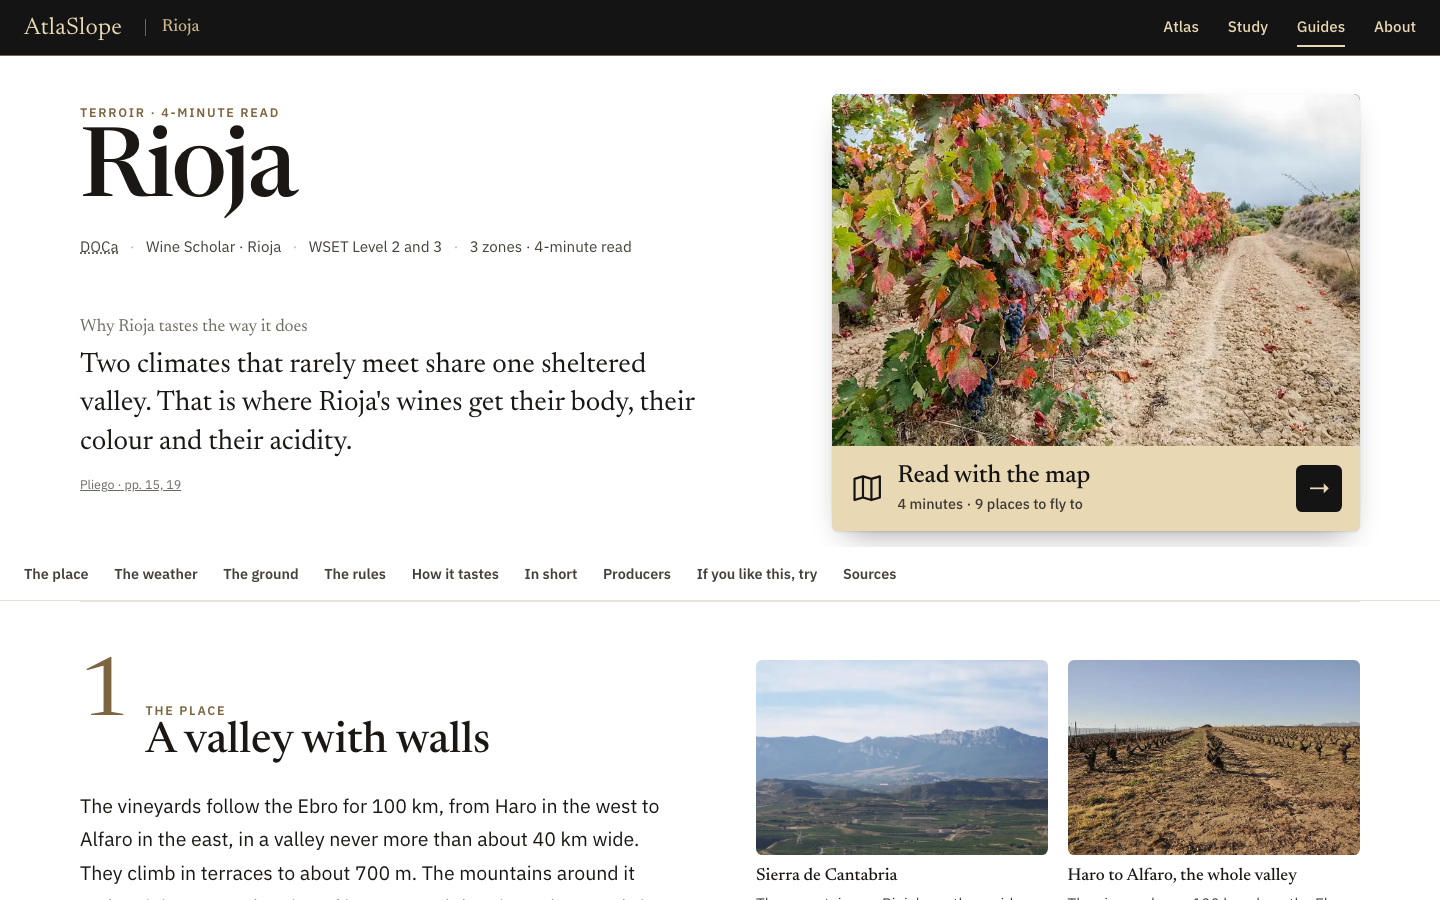
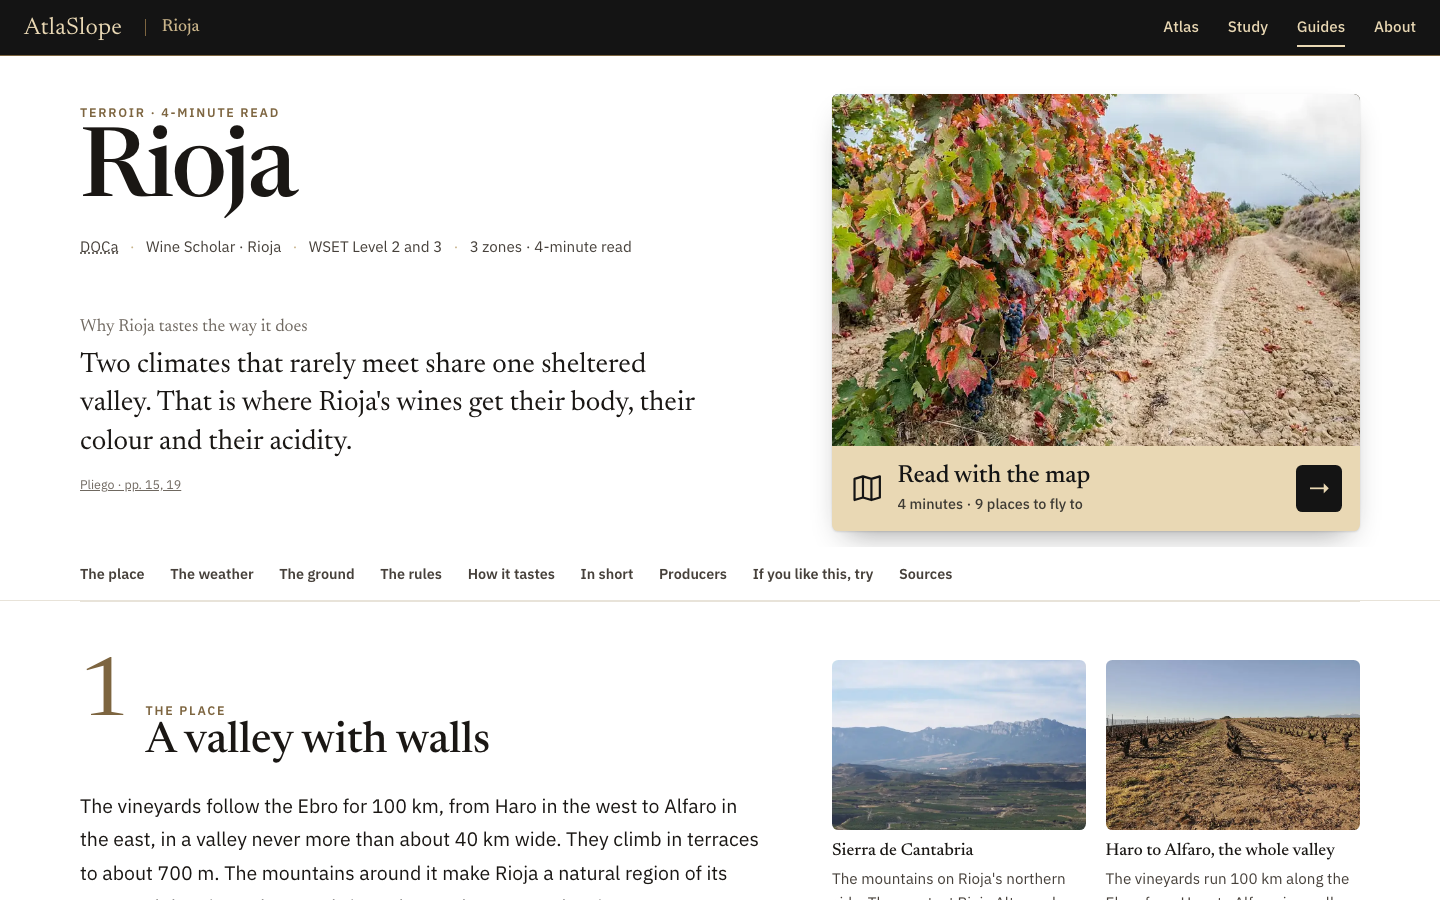
Guide redesign r2: review fixes on C3 (aligned photo column, jump bar at text edge, pressed state); handoff (#148, #127)

Changed region(s): [[0.4688, 0.7156, 0.9688, 1.0], [0.0625, 0.9022, 0.5, 0.9956], [0.0312, 0.6222, 0.6562, 0.6533]]

diff --git a/Review/mock-guide-redesign-r2/opt-c3.css b/Review/mock-guide-redesign-r2/opt-c3.css
@@ -44,3 +44,6 @@
   .o-c3 .pg-sources{columns:1}.pg-sources li{grid-template-columns:1fr}
   .pg-short li{grid-template-columns:1fr}.g-band .topnav{gap:1rem}.g-band .topnav a{font-size:.85rem}.g-band .where-r{display:none}
 }
+/* r2 review fixes: photo column as wide as its photos so photo and chart edges line up; jump bar starts at the text edge */
+@media (min-width:48.01rem){.o-c3 .a-beat{grid-template-columns:minmax(0,1fr) 33rem}.o-c3 .a-side .g-fig{max-width:none}}
+.o-c3 .g-jump{padding:0 max(1.5rem,calc((100% - 84rem)/2 + 2rem))}

diff --git a/Review/mock-guide-redesign-r2/base.css b/Review/mock-guide-redesign-r2/base.css
@@ -99,3 +99,5 @@ p{margin:0 0 1rem}
 .g-fx .src.short{display:block;margin-top:.3rem}
 .g-fx .pg-rows .src{display:block}
 @media (max-width:30rem){.g-fx .pg-rows{grid-template-columns:1fr;gap:.1rem}.g-fx .pg-rows dd{margin-bottom:.7rem}}
+/* r2 review fix: a pressed state on touch */
+.bb:active .bb-lab,.mapcard:active{filter:brightness(.9)}

diff --git a/Review/mock-guide-redesign-r2/review-design.md b/Review/mock-guide-redesign-r2/review-design.md
@@ -1,22 +1,20 @@
-# Design review: guide redesign r1 (22 Oct 2026, ReviewBot)
+# Design review, guide redesign r2 (C1, C2, C3), 22 Oct 2026
 
-Verdict: fix first. 0 blocker, 4 major, 5 minor. Read the 4 contact sheets, ran two small Playwright scripts (hub toggles, button clicks, D measurements). No re-shoot.
+Verdict: ready after one fix pass. Blockers 0, should fix 4, notes 4. Read from shots (3 sheets, button shots, 7 singles); nothing re-shot, mock not opened live.
 
-## Major
-1. D, 1440, big-number rows: "63,593 ha" (x 1084-1376, scrollWidth > clientWidth) and "60 months" (x 744-1036, scrollWidth > clientWidth) are wider than their 292 px column at 86 px type; "60 months" runs into "2017" (starts x 1084). Fix: size numbers to the column (clamp, or unit on a second line). [V]
-2. D, 1440, sideways overflow: document scrollWidth 1455 vs 1440 (solo); 1417 vs 1390 inside the hub frame. Hidden by `overflow-x:clip` on body, so the cause (the big-number rows) remains. 390: 390, no overflow. Fix: remove the cause, keep the clip as a backstop. [V]
-3. B, C, D, 1440, photos: every image is the app's 800 px file shown at 1440 wide (full-bleed hero, beat photos 1440 and 720 wide; D 12 images 800/1440, 800/720 ...). Soft at desktop. Fix: use larger sources for hero and full-bleed photos, or cap full-bleed photos at about 800 px wide. [V for D, read for B/C]
-4. A, B, D, photo button: it does not open that option's map. It scrolls the hub to option C (C top at y 72) and opens C's map: the viewer leaves the option being judged. Tested A, B, D: all three land on C with the map open (after 4.5 s). Fix: say so on the button in the mock ("works in C only"), or keep the viewer in place and show a note. [V]
+## Should fix
+1. C1, C2 (1440), "empty right side" (owner's round-1 complaint): C1 section 1 puts two 528 px photos left and leaves ~200 px empty on the right (opt-c1-1440-01); C2 section 1 prose sits in a ~700 px column with the whole right half of the viewport blank (opt-c2-1440-02). Smaller photos do bring the white space back. Fix: drop C1 and C2 as final; if kept, centre the content block or fill the right column as C3 does. [V]
+2. C3 (1440), uneven columns: left prose column ends well before the right chart/photo column, leaving a blank left block of ~250-420 px (opt-c3-1440-02 after the Climate chart; opt-c3-1440-04 under "On the map" next to the Altitude chart). Same effect on the left of the Level row (opt-c2-1440-02 pattern). Fix: top-align and accept, or let the chart/facts flow under the prose when the prose is shorter (single column below the photo). [V]
+3. C3 (1440), mixed widths: photo column is 528 px in a ~604 px column (right edge ragged against the 1360 px text edge, opt-c3-1440-04), while the 3-province row is full width at 403 px each (opt-c3-1440-03). Fix: let the single photo fill its column (cap at the column, not 33rem) so right edges align; check natural/rendered stays above 1.45 (604 px of 800 gives 1.32: use 33rem on the image only if it left-aligns with the chart edge, otherwise keep and accept). [A]
+4. All, button at 390: clickable read is good (solid champagne bar, glyph, black arrow square, shot button-c3-390), but the bar is the only cue: the photo above carries no hint and the card sits under the lede on the phone, near the fold (sheet phone row 1: card is below title, above lede, fine). No fault found; remaining risk is the hover state that does not exist on touch. Fix: none needed unless the owner wants a visible pressed state; add `:active` darken so the touch tap shows. [A]
 
-## Minor
-5. Sierra de Cantabria photo twice in A, B and C (button/hero and the beat 1 stop photo). Fix: use a different hero or drop the repeat. [V from sheets]
-6. Phone fold-back (C) lands on a stop card, not the paragraph. Fix: add a text twin or document the fallback. [A, from the builder, not re-run]
-7. C phone, map mode: the top band wraps "Back to Rioja" over two lines next to "Close the map". Fix: shorten or stack. [V, screenshot after-a]
-8. D, Marqués de Murrieta heading is 144 px; the text fits (no overflow measured) but is very large next to everything else; at 390 it wraps to two lines at 51 px. Check taste only. [V]
-9. D and B, 1440 start of page: the title ("Rioja" in B) sits below the hero photo and is cut at the fold. Fix: title above the fold. [read, sheet-b]
+## Notes
+5. All: jump bar starts at the page edge (x 24), not the text edge (x 80), while text and cards align at 80. Fix: align to the text edge. Known from r1. [V]
+6. All (1440 hero): the card has a drop shadow and the page has no other boxes. It reads as the one clickable thing, which is right; keep. [V]
+7. C3 (1440): the Level row (label left, value, MAPA link) sits in a half-empty row between the "On the map" links and the Sierra photo (opt-c3-1440-01/c2-02). Fix: put Level into the hero meta line or the facts strip. [V]
+8. C3 section 3 photo is a saturated blue sky (opt-c3-1440-03 and 04 region): next to the muted others it is the loudest element. Fix: swap or crop for more vine, less sky (crop is the owner's check). [V]
 
-## Confirmed with numbers
-- Hub toggle: all four options, Desktop and Phone: frame resizes (1392 desktop, 410 phone), iframe 1390 or 390 wide, no sideways scroll at phone (docScrollW 390), hub scrollWidth 1440 = no hub scroll. Only D desktop has docScrollW 1417 > 1390 (finding 2). [V]
-- Pages hold every section in all four sheets (read). No drawn icons, no text on photos, one credit line per set seen (read, sheets too small to read credit text).
-## Not checked
-Credit wording, photo crops at face level, large-text and reduced-motion beyond the README claims.
+## Questions asked
+- Does shrinking the photos bring back white space? Yes in C1 and C2 (finding 1); C3 avoids it by using the second column. [V]
+- Button obvious at 390? Yes: solid bar, glyph, arrow square, full-width card. [V]
+- Is C3 sound against the owner's words? Yes: "C" hero card and map tour plus A's calm; photos capped at 528 px (ratio 1.52 min) answers "blurry"; second column fills the width. Fix findings 2 and 3 first. Not checked: unfold animation (stills only), blur judged from measured ratios not at 100% view. [V/A]

diff --git a/docs/handoffs/2026-10-22-guide-redesign-r2.md b/docs/handoffs/2026-10-22-guide-redesign-r2.md
@@ -1,0 +1,25 @@
+# Guide page redesign, rounds 1 and 2 (22 Oct 2026)
+
+Follows `2026-10-21-guide-redesign.md`. Mock only, no app code. Branch `claude/guide-redesign-r1` (pushed, no PR yet).
+
+## Done [V]
+- Round 1: `Review/mock-guide-redesign-r1/`, page `mocks/guide-redesign-r1/index.html` (local, git-ignored). Options A subtle,
+  B magazine, C photo-led, D bold; unfold from the photo button into the v4 map mode in C. ReviewBot 0 blocker, 4 major, 5 minor;
+  fixed by LeadBot: D numbers and overflow, button stays in A/B/D, no repeated button photo in B-D, "Back to Rioja" on one line.
+  Left: A shows "Viñedos AR" twice; photos soft full-bleed (800 px files).
+- Owner on round 1: "Leaning towards C indeed. I also like A's calmness of the page. I love C's map tour." Then: "Two C variants AND
+  one C+A blend. I don't like how the photos become so blurry under C, perhaps we need to make them smaller. Also it needs to be very
+  clear that read with the map is a CTA / something to click on."
+- Round 2: `Review/mock-guide-redesign-r2/`, page `mocks/guide-redesign-r2/index.html` (#solo=c1|c2|c3). C1 C refined, C2 C calmer,
+  C3 C + A blend (recommended). One map-card button (photo + champagne bar, glyph, arrow square, hover/active), full unfold and
+  fold-back in all three. Photos at most 528 px wide, natural/rendered ratio min 1.52 (`measure.mjs`). ReviewBot: 0 blockers, 4 should
+  fix; fixed: C3 photo and chart edges aligned (side column 33rem), jump bar at the text edge, pressed state. Not fixed: C1 and C2 leave
+  white space at 1440 (the cost of smaller photos; C3 is the answer to that); C3's left column still ends before the charts in some beats.
+- Spend [V]: builder r1 261K, r2 118K; ReviewBot 35K + 34K; LeadBot about 220K, mostly re-reads.
+
+## Open
+1. Owner picks C1, C2 or C3 (or lists changes). Photos bigger than 528 px need larger source files (from the photos' own pages, in
+   `data/SOURCES.md`); the app ships 800 px only.
+2. Then rewrite the build brief in `2026-10-21-tour-v3-restore.md` for the chosen page plus the v4 map mode and the unfold.
+3. Shots are heavy (r1 44 MB, r2 38 MB in git): before the PR, keep the sheets and key frames and drop the singles, or say why not.
+4. Unchanged from earlier: stops without their own photo, satellite fix #182, the agenda items.

diff --git a/docs/handoffs/README.md b/docs/handoffs/README.md
@@ -2,6 +2,7 @@
 
 Newest first, one line each. File names are `<date>-<topic>.md`; each holds done, decided, open, where. Add a line here in the PR that adds a handoff.
 
+- [2026-10-22-guide-redesign-r2](2026-10-22-guide-redesign-r2.md): guide page rounds 1 and 2; owner leans C with A's calm; r2 has C1, C2, C3 (blend, recommended), sharp smaller photos, a clear map button (#148, #127, 22 Oct 2026)
 - [2026-10-21-guide-redesign](2026-10-21-guide-redesign.md): v4 mock built and reviewed; owner wants a nicer guide page that opens first, with the map unfolding from a big photo button; design round 1 brief (#148, #127, 21 Oct 2026)
 - [2026-10-21-tour-v3-restore](2026-10-21-tour-v3-restore.md): map tour round 1 and B dropped; v3 journey back, v4 mock (guide inside the journey), #182 fix and restore briefs (#148, #127, #182, 21 Oct 2026)
 - [2026-10-21-agenda-after-62](2026-10-21-agenda-after-62.md): after release 62: reports, owner decisions, Learn status, map tour B and Learn briefs, next country (21 Oct 2026)
